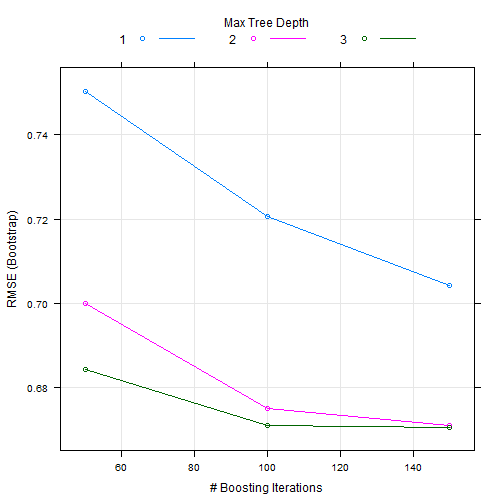
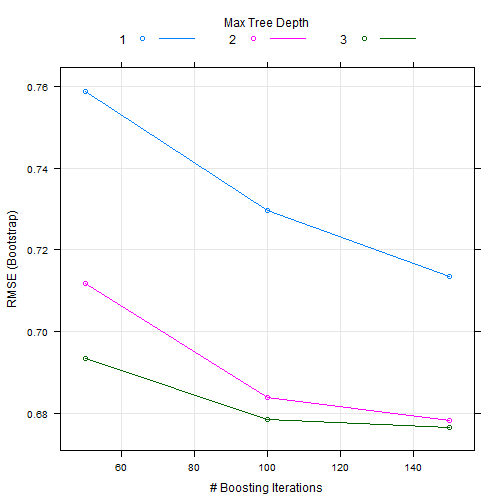
push to gh-pages

diff --git a/index.html b/index.html
@@ -210,7 +210,7 @@ Includes tools for data splitting, pre-processing, feature selection, model tuni
   <!-- Presenter Notes -->
 </slide>
 
-<slide class="" id="slide-11" style="background:;">
+<slide class="" id="slide-11" style="background:#EEE;">
   <hgroup>
     <h2>Steps</h2>
   </hgroup>
@@ -413,26 +413,26 @@ test = predict(preProcValues, test)
 </code></pre>
 
 <pre><code>##  Sex          Length           Diameter           Height        
-##  F:1042   Min.   :-3.4331   Min.   :-3.1972   Min.   :-3.30641  
-##  I:1060   1st Qu.:-0.6197   1st Qu.:-0.5873   1st Qu.:-0.58397  
-##  M:1241   Median : 0.1664   Median : 0.1656   Median : 0.00786  
+##  F:1023   Min.   :-3.7353   Min.   :-3.5525   Min.   :-3.27188  
+##  I:1075   1st Qu.:-0.6078   1st Qu.:-0.6259   1st Qu.:-0.57232  
+##  M:1245   Median : 0.1428   Median : 0.1309   Median : 0.01453  
 ##           Mean   : 0.0000   Mean   : 0.0000   Mean   : 0.00000  
-##           3rd Qu.: 0.7456   3rd Qu.: 0.7177   3rd Qu.: 0.59969  
-##           Max.   : 2.4005   Max.   : 2.4242   Max.   :23.44452  
-##   Whole_Weight      Shuckled_Weight    Viscera_Weight    
-##  Min.   :-1.67135   Min.   :-1.60985   Min.   :-1.64116  
-##  1st Qu.:-0.79104   1st Qu.:-0.77745   1st Qu.:-0.80064  
-##  Median :-0.06141   Median :-0.09985   Median :-0.09117  
-##  Mean   : 0.00000   Mean   : 0.00000   Mean   : 0.00000  
-##  3rd Qu.: 0.65103   3rd Qu.: 0.63046   3rd Qu.: 0.64994  
-##  Max.   : 4.02715   Max.   : 5.05612   Max.   : 5.22311  
+##           3rd Qu.: 0.7683   3rd Qu.: 0.7364   3rd Qu.: 0.60140  
+##           Max.   : 2.1443   Max.   : 2.2502   Max.   :23.25418  
+##   Whole_Weight      Shuckled_Weight   Viscera_Weight    
+##  Min.   :-1.68089   Min.   :-1.6079   Min.   :-1.63772  
+##  1st Qu.:-0.78794   1st Qu.:-0.7935   1st Qu.:-0.79721  
+##  Median :-0.06162   Median :-0.1031   Median :-0.08916  
+##  Mean   : 0.00000   Mean   : 0.0000   Mean   : 0.00000  
+##  3rd Qu.: 0.65397   3rd Qu.: 0.6279   3rd Qu.: 0.64172  
+##  Max.   : 4.09185   Max.   : 5.1018   Max.   : 5.30109  
 ##   Shell_Weight          Rings        
-##  Min.   :-1.68536   Min.   :-2.4610  
-##  1st Qu.:-0.78327   1st Qu.:-0.5984  
-##  Median :-0.03745   Median :-0.2880  
+##  Min.   :-1.69740   Min.   :-2.7758  
+##  1st Qu.:-0.79204   1st Qu.:-0.5971  
+##  Median :-0.05553   Median :-0.2858  
 ##  Mean   : 0.00000   Mean   : 0.0000  
-##  3rd Qu.: 0.63734   3rd Qu.: 0.3329  
-##  Max.   : 5.43189   Max.   : 5.9206
+##  3rd Qu.: 0.65044   3rd Qu.: 0.3367  
+##  Max.   : 5.51316   Max.   : 5.3166
 </code></pre>
 
   </article>
@@ -444,27 +444,27 @@ test = predict(preProcValues, test)
     <pre><code class="r">summary(test)
 </code></pre>
 
-<pre><code>##  Sex         Length           Diameter           Height        
-##  F:265   Min.   :-3.8066   Min.   :-3.5854   Min.   :-3.21135  
-##  I:282   1st Qu.:-0.6015   1st Qu.:-0.6179   1st Qu.:-0.59561  
-##  M:287   Median : 0.1250   Median : 0.1495   Median : 0.02718  
-##          Mean   : 0.0000   Mean   : 0.0000   Mean   : 0.00000  
-##          3rd Qu.: 0.8088   3rd Qu.: 0.7634   3rd Qu.: 0.64998  
-##          Max.   : 2.0908   Max.   : 1.9914   Max.   : 9.36910  
-##   Whole_Weight      Shuckled_Weight   Viscera_Weight     Shell_Weight     
-##  Min.   :-1.69852   Min.   :-1.6067   Min.   :-1.6545   Min.   :-1.74629  
-##  1st Qu.:-0.78955   1st Qu.:-0.8046   1st Qu.:-0.7981   1st Qu.:-0.81489  
-##  Median :-0.06643   Median :-0.1308   Median :-0.1198   Median :-0.06072  
-##  Mean   : 0.00000   Mean   : 0.0000   Mean   : 0.0000   Mean   : 0.00000  
-##  3rd Qu.: 0.70763   3rd Qu.: 0.6913   3rd Qu.: 0.6915   3rd Qu.: 0.69251  
-##  Max.   : 3.69355   Max.   : 4.5762   Max.   : 3.1777   Max.   : 3.25763  
+<pre><code>##  Sex         Length           Diameter           Height       
+##  F:284   Min.   :-3.1324   Min.   :-3.1190   Min.   :-3.1108  
+##  I:267   1st Qu.:-0.5665   1st Qu.:-0.5642   1st Qu.:-0.6493  
+##  M:283   Median : 0.1784   Median : 0.1371   Median : 0.1280  
+##          Mean   : 0.0000   Mean   : 0.0000   Mean   : 0.0000  
+##          3rd Qu.: 0.7579   3rd Qu.: 0.7383   3rd Qu.: 0.6462  
+##          Max.   : 2.3719   Max.   : 2.3913   Max.   : 2.8486  
+##   Whole_Weight     Shuckled_Weight   Viscera_Weight     Shell_Weight     
+##  Min.   :-1.6800   Min.   :-1.6255   Min.   :-1.6639   Min.   :-1.71003  
+##  1st Qu.:-0.7958   1st Qu.:-0.7695   1st Qu.:-0.8010   1st Qu.:-0.77158  
+##  Median :-0.0544   Median :-0.1185   Median :-0.1128   Median :-0.05204  
+##  Mean   : 0.0000   Mean   : 0.0000   Mean   : 0.0000   Mean   : 0.00000  
+##  3rd Qu.: 0.6989   3rd Qu.: 0.6491   3rd Qu.: 0.7070   3rd Qu.: 0.62084  
+##  Max.   : 3.4477   Max.   : 3.9055   Max.   : 3.6833   Max.   : 4.60611  
 ##      Rings        
-##  Min.   :-2.7672  
-##  1st Qu.:-0.6048  
-##  Median :-0.2959  
+##  Min.   :-2.4449  
+##  1st Qu.:-0.6101  
+##  Median :-0.3043  
 ##  Mean   : 0.0000  
-##  3rd Qu.: 0.3219  
-##  Max.   : 4.0287
+##  3rd Qu.: 0.3073  
+##  Max.   : 5.8116
 </code></pre>
 
   </article>
@@ -587,15 +587,15 @@ model_gbm&lt;-train(train[,predictors],train[,outcome],
 ## Resampling results across tuning parameters:
 ## 
 ##   interaction.depth  n.trees  RMSE       Rsquared   MAE      
-##   1                   50      0.7502591  0.4454662  0.5382197
-##   1                  100      0.7206563  0.4865738  0.5157580
-##   1                  150      0.7043399  0.5073519  0.5044893
-##   2                   50      0.7000025  0.5158610  0.4998578
-##   2                  100      0.6750586  0.5438537  0.4782080
-##   2                  150      0.6711010  0.5483069  0.4737402
-##   3                   50      0.6843659  0.5340065  0.4852911
-##   3                  100      0.6711283  0.5482569  0.4732381
-##   3                  150      0.6706128  0.5490469  0.4723335
+##   1                   50      0.7588560  0.4459061  0.5448033
+##   1                  100      0.7296961  0.4855417  0.5219807
+##   1                  150      0.7135095  0.5056584  0.5100219
+##   2                   50      0.7118878  0.5109211  0.5070230
+##   2                  100      0.6838914  0.5420810  0.4830082
+##   2                  150      0.6782502  0.5483119  0.4780722
+##   3                   50      0.6933393  0.5321337  0.4908071
+##   3                  100      0.6785625  0.5476458  0.4771978
+##   3                  150      0.6764883  0.5502120  0.4754803
 ## 
 ## Tuning parameter &#39;shrinkage&#39; was held constant at a value of 0.1
 ## 
@@ -637,15 +637,15 @@ library(gbm)
 
 <pre><code>## gbm variable importance
 ## 
-##                 Overall
-## Shell_Weight    100.000
-## Shuckled_Weight  28.940
-## Height            8.365
-## Whole_Weight      3.968
-## Diameter          2.822
-## Sex               1.661
-## Viscera_Weight    1.609
-## Length            0.000
+##                  Overall
+## Shell_Weight    100.0000
+## Shuckled_Weight  27.6562
+## Height            6.8541
+## Whole_Weight      6.5365
+## Diameter          1.7906
+## Sex               1.3046
+## Viscera_Weight    0.1177
+## Length            0.0000
 </code></pre>
 
   </article>
@@ -684,7 +684,7 @@ confusionMatrix(predictions,test[,outcome])
 </code></pre>
 
 <pre><code>##      RMSE  Rsquared       MAE 
-## 0.7063146 0.5029404 0.5014429
+## 0.6912575 0.5234761 0.4807695
 </code></pre>
 
   </article>

diff --git a/index.md b/index.md
@@ -118,7 +118,7 @@ Includes tools for data splitting, pre-processing, feature selection, model tuni
 
 ![](assets/img/caret.png)
 
----
+---bg:#EEE
 
 ## Steps
 > 1. Getting started
@@ -294,26 +294,26 @@ summary(train)
 
 ```
 ##  Sex          Length           Diameter           Height        
-##  F:1042   Min.   :-3.4331   Min.   :-3.1972   Min.   :-3.30641  
-##  I:1060   1st Qu.:-0.6197   1st Qu.:-0.5873   1st Qu.:-0.58397  
-##  M:1241   Median : 0.1664   Median : 0.1656   Median : 0.00786  
+##  F:1023   Min.   :-3.7353   Min.   :-3.5525   Min.   :-3.27188  
+##  I:1075   1st Qu.:-0.6078   1st Qu.:-0.6259   1st Qu.:-0.57232  
+##  M:1245   Median : 0.1428   Median : 0.1309   Median : 0.01453  
 ##           Mean   : 0.0000   Mean   : 0.0000   Mean   : 0.00000  
-##           3rd Qu.: 0.7456   3rd Qu.: 0.7177   3rd Qu.: 0.59969  
-##           Max.   : 2.4005   Max.   : 2.4242   Max.   :23.44452  
-##   Whole_Weight      Shuckled_Weight    Viscera_Weight    
-##  Min.   :-1.67135   Min.   :-1.60985   Min.   :-1.64116  
-##  1st Qu.:-0.79104   1st Qu.:-0.77745   1st Qu.:-0.80064  
-##  Median :-0.06141   Median :-0.09985   Median :-0.09117  
-##  Mean   : 0.00000   Mean   : 0.00000   Mean   : 0.00000  
-##  3rd Qu.: 0.65103   3rd Qu.: 0.63046   3rd Qu.: 0.64994  
-##  Max.   : 4.02715   Max.   : 5.05612   Max.   : 5.22311  
+##           3rd Qu.: 0.7683   3rd Qu.: 0.7364   3rd Qu.: 0.60140  
+##           Max.   : 2.1443   Max.   : 2.2502   Max.   :23.25418  
+##   Whole_Weight      Shuckled_Weight   Viscera_Weight    
+##  Min.   :-1.68089   Min.   :-1.6079   Min.   :-1.63772  
+##  1st Qu.:-0.78794   1st Qu.:-0.7935   1st Qu.:-0.79721  
+##  Median :-0.06162   Median :-0.1031   Median :-0.08916  
+##  Mean   : 0.00000   Mean   : 0.0000   Mean   : 0.00000  
+##  3rd Qu.: 0.65397   3rd Qu.: 0.6279   3rd Qu.: 0.64172  
+##  Max.   : 4.09185   Max.   : 5.1018   Max.   : 5.30109  
 ##   Shell_Weight          Rings        
-##  Min.   :-1.68536   Min.   :-2.4610  
-##  1st Qu.:-0.78327   1st Qu.:-0.5984  
-##  Median :-0.03745   Median :-0.2880  
+##  Min.   :-1.69740   Min.   :-2.7758  
+##  1st Qu.:-0.79204   1st Qu.:-0.5971  
+##  Median :-0.05553   Median :-0.2858  
 ##  Mean   : 0.00000   Mean   : 0.0000  
-##  3rd Qu.: 0.63734   3rd Qu.: 0.3329  
-##  Max.   : 5.43189   Max.   : 5.9206
+##  3rd Qu.: 0.65044   3rd Qu.: 0.3367  
+##  Max.   : 5.51316   Max.   : 5.3166
 ```
 
 ---
@@ -324,27 +324,27 @@ summary(test)
 ```
 
 ```
-##  Sex         Length           Diameter           Height        
-##  F:265   Min.   :-3.8066   Min.   :-3.5854   Min.   :-3.21135  
-##  I:282   1st Qu.:-0.6015   1st Qu.:-0.6179   1st Qu.:-0.59561  
-##  M:287   Median : 0.1250   Median : 0.1495   Median : 0.02718  
-##          Mean   : 0.0000   Mean   : 0.0000   Mean   : 0.00000  
-##          3rd Qu.: 0.8088   3rd Qu.: 0.7634   3rd Qu.: 0.64998  
-##          Max.   : 2.0908   Max.   : 1.9914   Max.   : 9.36910  
-##   Whole_Weight      Shuckled_Weight   Viscera_Weight     Shell_Weight     
-##  Min.   :-1.69852   Min.   :-1.6067   Min.   :-1.6545   Min.   :-1.74629  
-##  1st Qu.:-0.78955   1st Qu.:-0.8046   1st Qu.:-0.7981   1st Qu.:-0.81489  
-##  Median :-0.06643   Median :-0.1308   Median :-0.1198   Median :-0.06072  
-##  Mean   : 0.00000   Mean   : 0.0000   Mean   : 0.0000   Mean   : 0.00000  
-##  3rd Qu.: 0.70763   3rd Qu.: 0.6913   3rd Qu.: 0.6915   3rd Qu.: 0.69251  
-##  Max.   : 3.69355   Max.   : 4.5762   Max.   : 3.1777   Max.   : 3.25763  
+##  Sex         Length           Diameter           Height       
+##  F:284   Min.   :-3.1324   Min.   :-3.1190   Min.   :-3.1108  
+##  I:267   1st Qu.:-0.5665   1st Qu.:-0.5642   1st Qu.:-0.6493  
+##  M:283   Median : 0.1784   Median : 0.1371   Median : 0.1280  
+##          Mean   : 0.0000   Mean   : 0.0000   Mean   : 0.0000  
+##          3rd Qu.: 0.7579   3rd Qu.: 0.7383   3rd Qu.: 0.6462  
+##          Max.   : 2.3719   Max.   : 2.3913   Max.   : 2.8486  
+##   Whole_Weight     Shuckled_Weight   Viscera_Weight     Shell_Weight     
+##  Min.   :-1.6800   Min.   :-1.6255   Min.   :-1.6639   Min.   :-1.71003  
+##  1st Qu.:-0.7958   1st Qu.:-0.7695   1st Qu.:-0.8010   1st Qu.:-0.77158  
+##  Median :-0.0544   Median :-0.1185   Median :-0.1128   Median :-0.05204  
+##  Mean   : 0.0000   Mean   : 0.0000   Mean   : 0.0000   Mean   : 0.00000  
+##  3rd Qu.: 0.6989   3rd Qu.: 0.6491   3rd Qu.: 0.7070   3rd Qu.: 0.62084  
+##  Max.   : 3.4477   Max.   : 3.9055   Max.   : 3.6833   Max.   : 4.60611  
 ##      Rings        
-##  Min.   :-2.7672  
-##  1st Qu.:-0.6048  
-##  Median :-0.2959  
+##  Min.   :-2.4449  
+##  1st Qu.:-0.6101  
+##  Median :-0.3043  
 ##  Mean   : 0.0000  
-##  3rd Qu.: 0.3219  
-##  Max.   : 4.0287
+##  3rd Qu.: 0.3073  
+##  Max.   : 5.8116
 ```
 
 ---
@@ -458,15 +458,15 @@ print(model_gbm)
 ## Resampling results across tuning parameters:
 ## 
 ##   interaction.depth  n.trees  RMSE       Rsquared   MAE      
-##   1                   50      0.7502591  0.4454662  0.5382197
-##   1                  100      0.7206563  0.4865738  0.5157580
-##   1                  150      0.7043399  0.5073519  0.5044893
-##   2                   50      0.7000025  0.5158610  0.4998578
-##   2                  100      0.6750586  0.5438537  0.4782080
-##   2                  150      0.6711010  0.5483069  0.4737402
-##   3                   50      0.6843659  0.5340065  0.4852911
-##   3                  100      0.6711283  0.5482569  0.4732381
-##   3                  150      0.6706128  0.5490469  0.4723335
+##   1                   50      0.7588560  0.4459061  0.5448033
+##   1                  100      0.7296961  0.4855417  0.5219807
+##   1                  150      0.7135095  0.5056584  0.5100219
+##   2                   50      0.7118878  0.5109211  0.5070230
+##   2                  100      0.6838914  0.5420810  0.4830082
+##   2                  150      0.6782502  0.5483119  0.4780722
+##   3                   50      0.6933393  0.5321337  0.4908071
+##   3                  100      0.6785625  0.5476458  0.4771978
+##   3                  150      0.6764883  0.5502120  0.4754803
 ## 
 ## Tuning parameter 'shrinkage' was held constant at a value of 0.1
 ## 
@@ -506,15 +506,15 @@ varImp(object=model_gbm)
 ```
 ## gbm variable importance
 ## 
-##                 Overall
-## Shell_Weight    100.000
-## Shuckled_Weight  28.940
-## Height            8.365
-## Whole_Weight      3.968
-## Diameter          2.822
-## Sex               1.661
-## Viscera_Weight    1.609
-## Length            0.000
+##                  Overall
+## Shell_Weight    100.0000
+## Shuckled_Weight  27.6562
+## Height            6.8541
+## Whole_Weight      6.5365
+## Diameter          1.7906
+## Sex               1.3046
+## Viscera_Weight    0.1177
+## Length            0.0000
 ```
 
 ---
@@ -549,7 +549,7 @@ confusionMatrix(predictions,test[,outcome])
 
 ```
 ##      RMSE  Rsquared       MAE 
-## 0.7063146 0.5029404 0.5014429
+## 0.6912575 0.5234761 0.4807695
 ```
 
 ---
